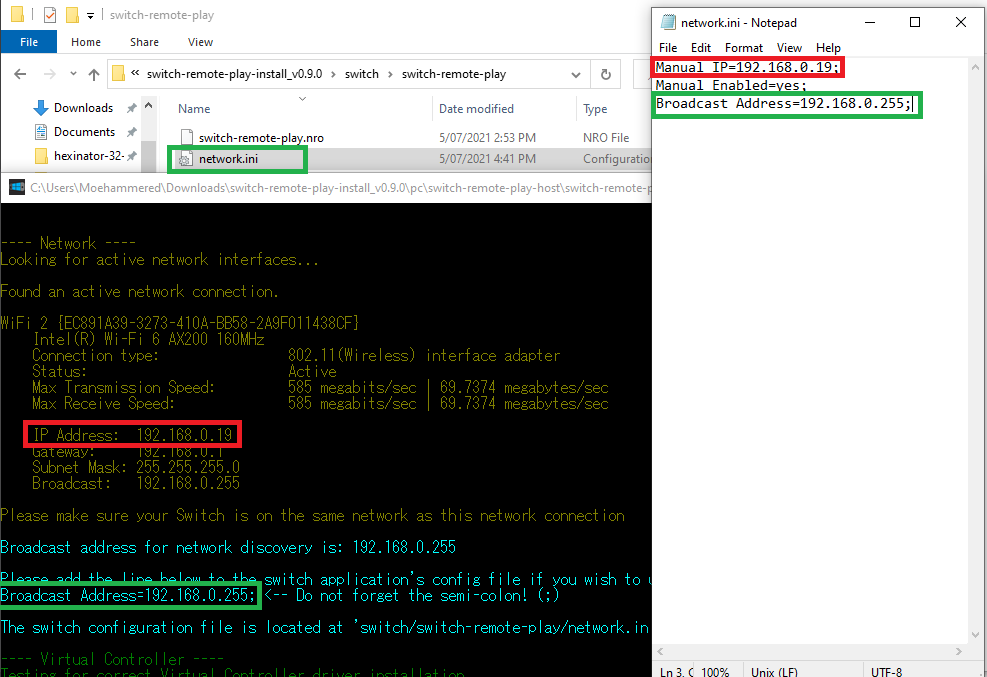
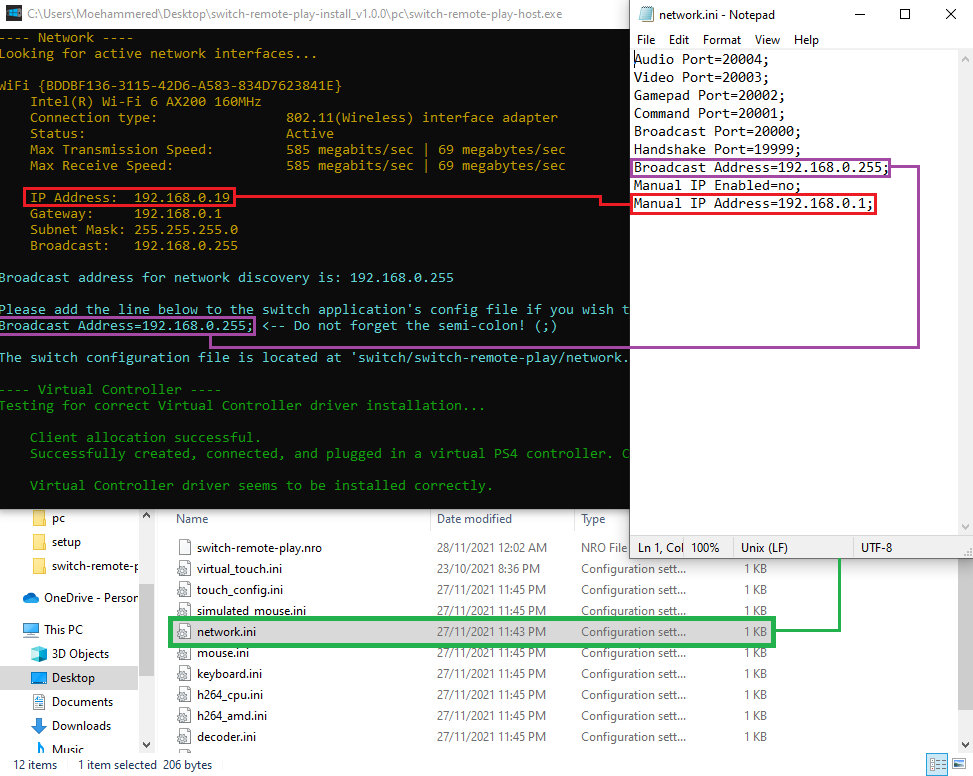
[Documentation - Version 1.0 Wiki Images] #42
Updated instructional images used in the wiki for version 1.0.

Added new instructional images for new configuration features and screens.

Updated readme to show multi controller and touch screen support. Rumble was striked out as that might be out of the scope for the current plans.

diff --git a/README.md b/README.md
@@ -29,10 +29,10 @@ You can also visit the [gbatemp release thread](https://gbatemp.net/threads/swit
 - [x] Toggle Input Mode to Xbox controller
 - [x] Rich configuration options for h264 CPU encoder
 - [x] Rich configuration options for h264 AMF encoder (AMD hardware encoder)
-- [ ] Multiple controller support
-- [ ] Touch screen emulate mouse support
+- [x] Multiple controller support
+- [x] Touch screen emulate mouse support
 - [ ] Controller gyro support
-- [ ] Controller rumble support
+- ~~[ ] Controller rumble support~~
 
 ## Switch-Project
 
